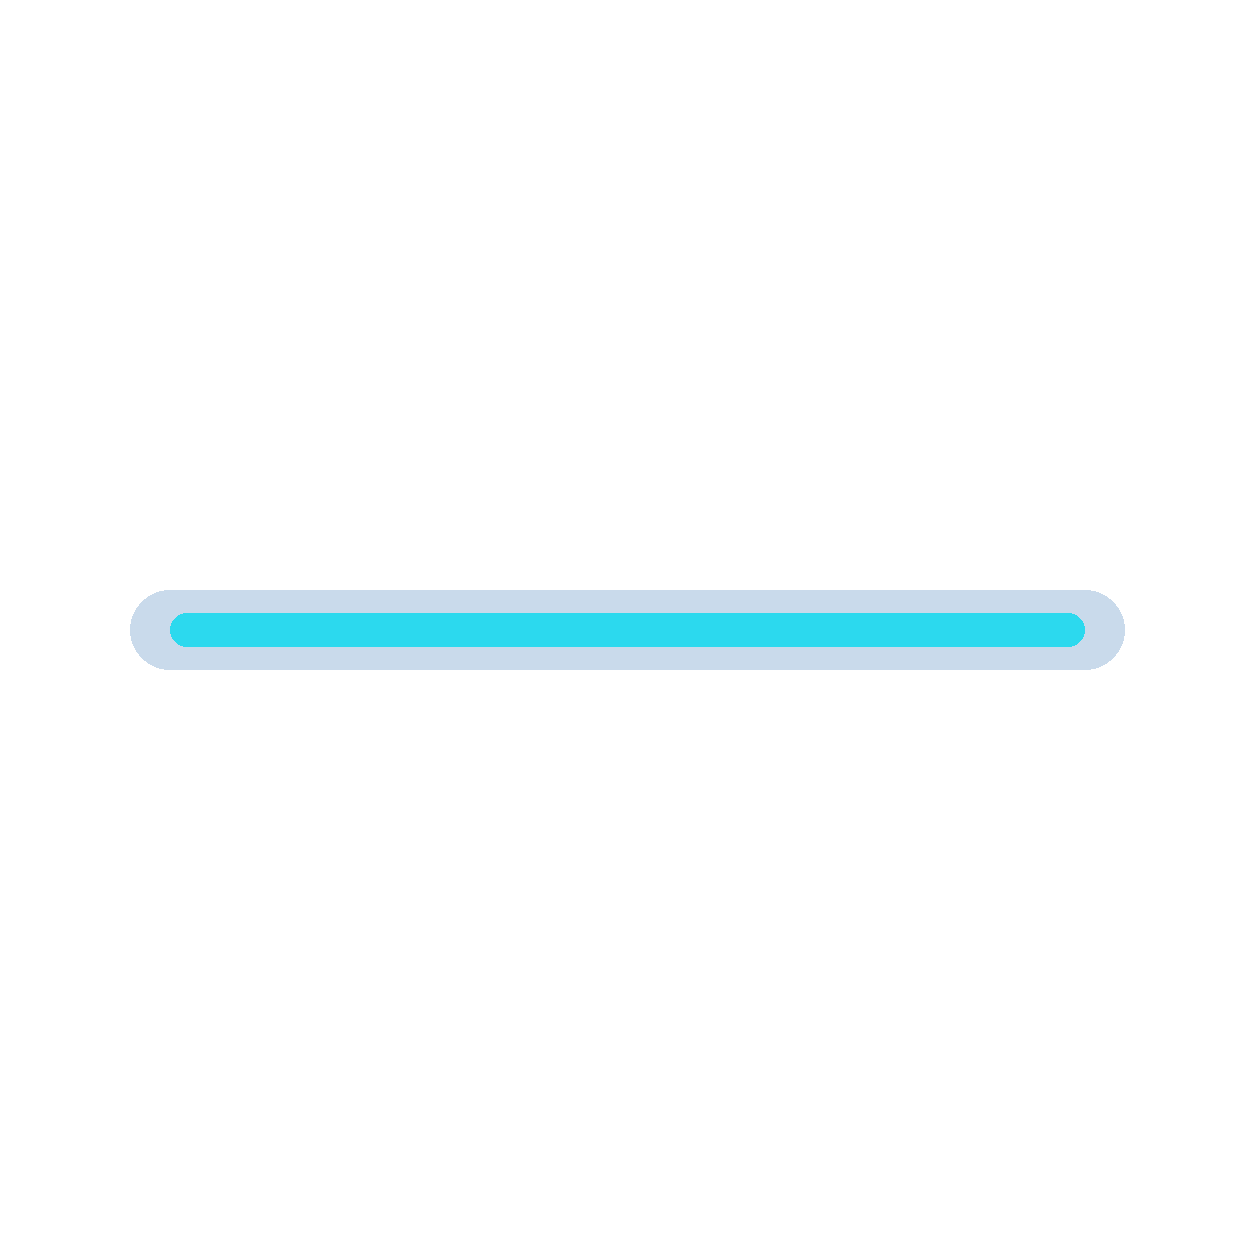
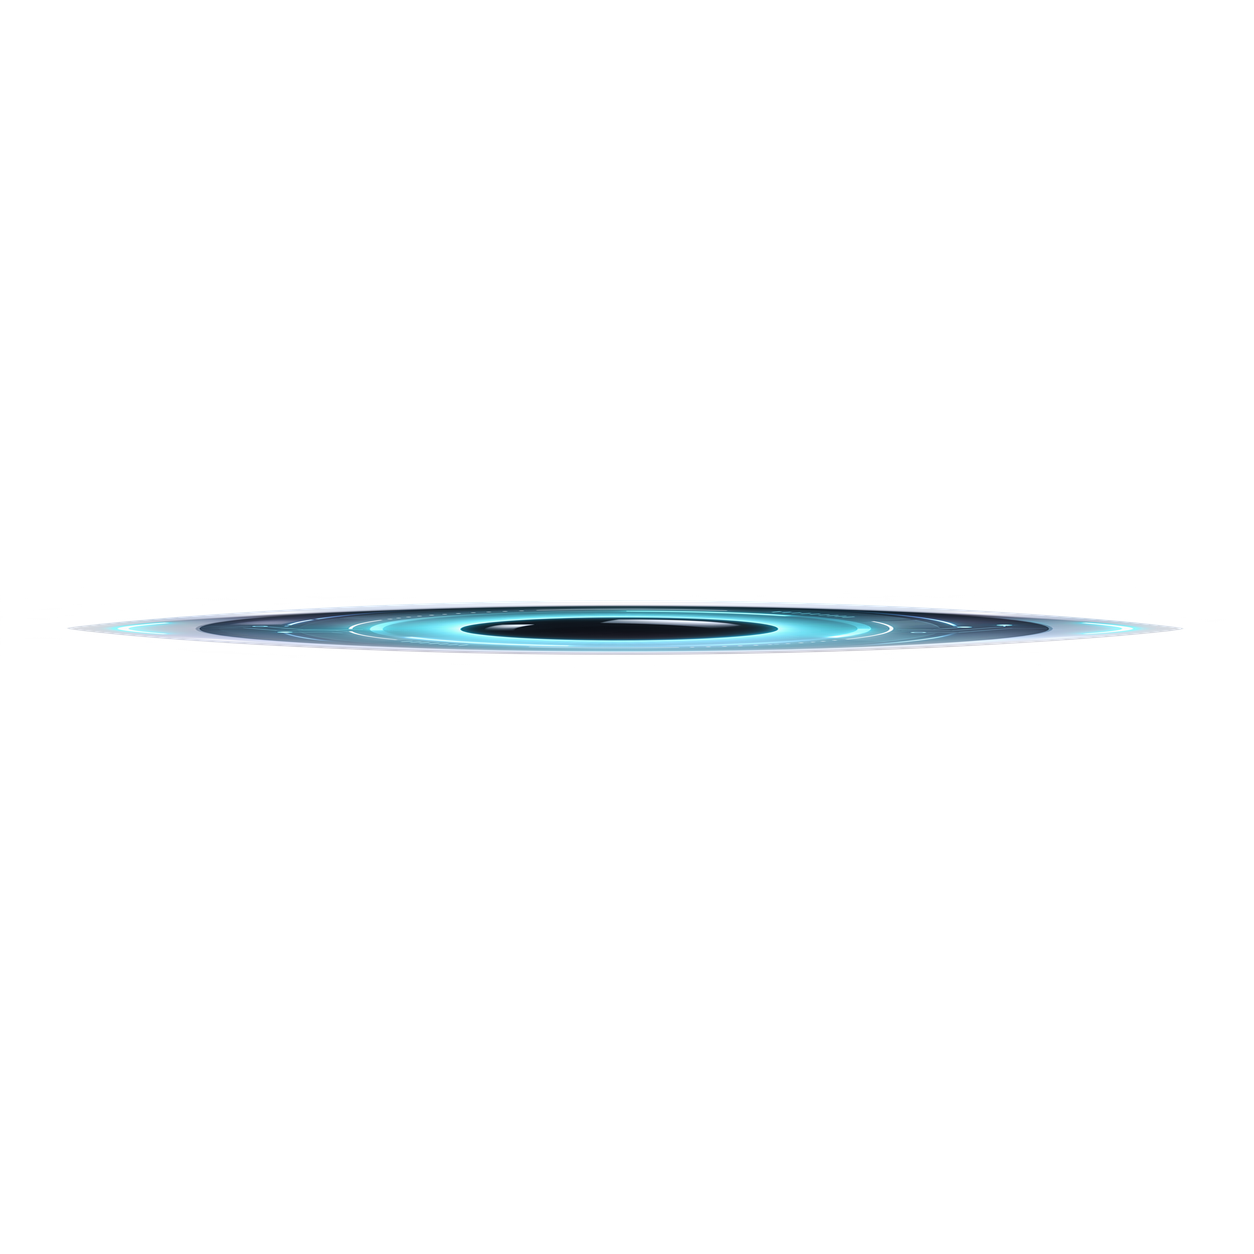
Match closed-eye state to existing Sentient artwork (v1.0.1) (#1)

Changed region(s): [[0.0622, 0.4665, 0.933, 0.5598]]

diff --git a/README.md b/README.md
@@ -1,9 +1,9 @@
 # NOVA Sentient Eye
 
-A stock-inspired futuristic cyan AI eye for Jibo/BEacon.
+A custom futuristic cyan AI eye for Jibo/BEacon.
 
 Author: Matt87c. Community theme; not an official 5x1 release.
 
-Version: 1.0.0. This is a candidate pending Jibo hardware acceptance.
+Version: 1.0.1. This is a candidate pending Jibo hardware acceptance.
 
 Install the ZIP through BEacon Store > Themes > Upload Theme ZIP.

diff --git a/CHANGELOG.md b/CHANGELOG.md
@@ -1,3 +1,8 @@
+## 1.0.1 - Consistent custom blink
+- Closed eye derives entirely from this theme's existing eye.png.
+- Original idle/listening artwork and configuration are unchanged.
+- Hardware testing pending.
+
 # Changelog
 
 ## 1.0.0 - 2026-11-02
